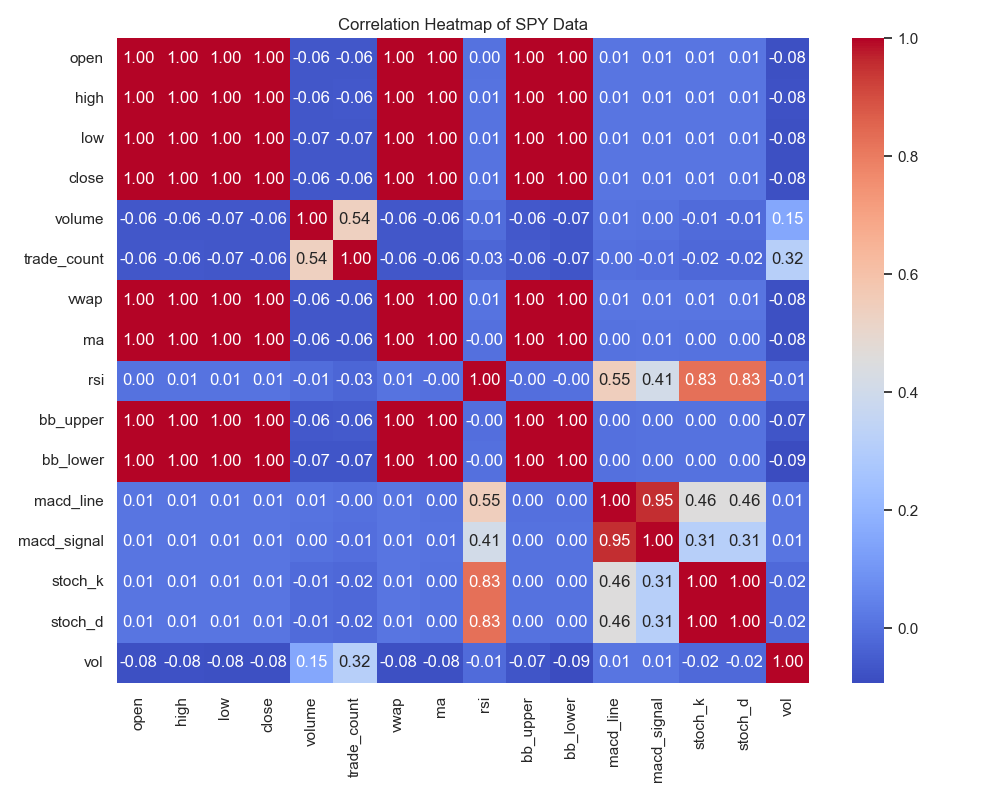
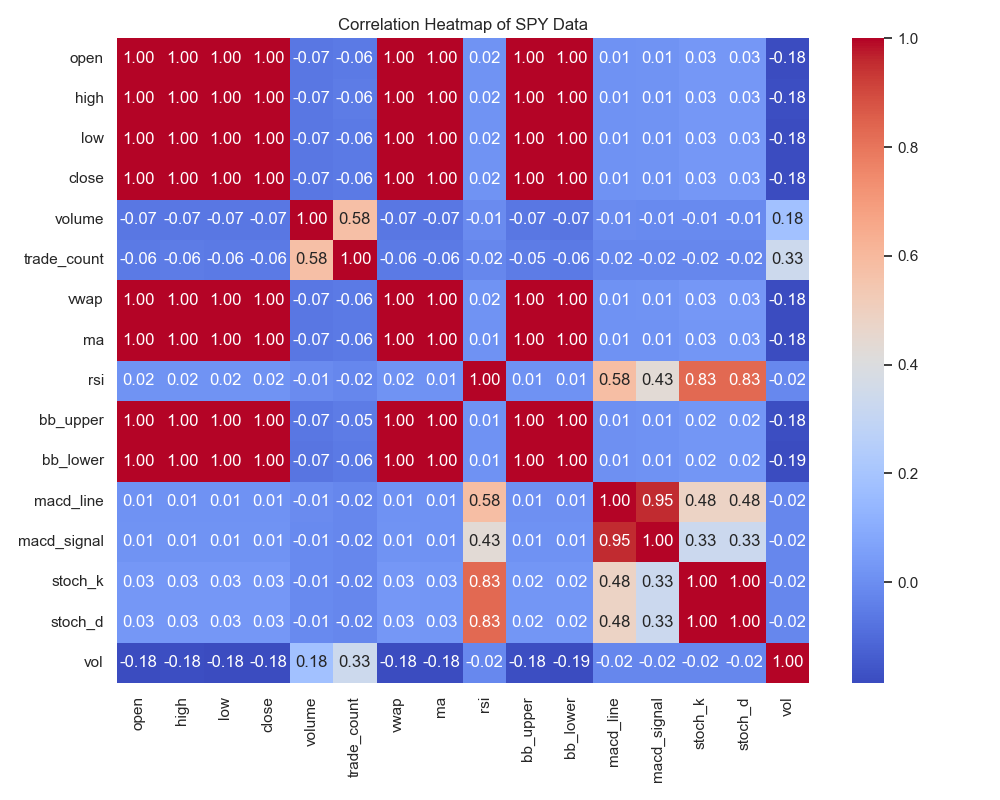
Backtest

diff --git a/trader/trading_model.py b/trader/trading_model.py
@@ -1,7 +1,7 @@
 import numpy as np
 from tensorflow.keras.models import load_model
 from alpaca.trading.client import TradingClient
-
+import joblib
 import os 
 import yaml
 
@@ -11,7 +11,22 @@ class TradingModel:
         with open('config/model_config.yaml', 'r') as f:
             config = yaml.safe_load(f)
         model_path = os.path.join(config['paths']['models'], config['name'] + '_final_model.keras')
+
+        with open("config/data_config.yaml", "r") as f:
+            config = yaml.safe_load(f) 
+
+        base_dir = os.path.dirname(os.path.dirname(os.path.abspath(__file__)))
+        processed_dir = os.path.join(base_dir, config["paths"]["processed"])
+
+        scaler_path = os.path.join(processed_dir, "scalers", "y_scaler.joblib")
+        if os.path.exists(scaler_path):
+            with open(scaler_path, "rb") as f:
+                self.scaler = joblib.load(f)
+        else:
+            self.scaler = None
+
         self.model = load_model(model_path)
+        self.last_predicted_value = None
 
     def predict_next_value(self, window):
         """
@@ -20,10 +35,12 @@ class TradingModel:
         :return: Predicted next value
         """
         window = np.expand_dims(window, axis=0)  # Add batch dimension
-        prediction = self.model.predict(window)
-        return prediction[0][0]  # Assuming the model outputs a single value
+        prediction = self.model.predict(window).flatten()
+        prediction = self.scaler.inverse_transform(prediction.reshape(-1, 1)).flatten()[0] if self.scaler else prediction
 
-    def trade(self, window, last_value, n_deviations):
+        return prediction
+
+    def trade(self, window, current_values ,threshold_percent=0.5):
         """
         Place a trade based on the predicted value.
         :param window: A numpy array of shape (60, 31)
@@ -31,22 +48,32 @@ class TradingModel:
         :param n_deviations: Number of deviations to determine trade direction
         """
         predicted_value = self.predict_next_value(window)
-        deviation = abs(predicted_value - last_value)
+        if self.last_predicted_value is None:
+            self.last_predicted_value = predicted_value
+            return None
+        pred_percent_change = (predicted_value - self.last_predicted_value) / self.last_predicted_value
+
+        self.last_predicted_value = predicted_value.copy()
+        print(f"Percent Change: {pred_percent_change}")
+        current_percent_change = (current_values[1] - current_values[0]) / current_values[0]
 
         with open('config/data_config.yaml', 'r') as f:
             config = yaml.safe_load(f)
         ticker = config['tickers'][-1]  # Assuming we are trading the last ticker
 
         qty = 1 
-        if predicted_value > last_value + n_deviations * deviation:
-            self.buy(ticker, qty=1)
-            return {"dir": 1, "last": last_value, "qty": qty}
+        if self.last_predicted_value is not None:
+            if pred_percent_change > threshold_percent and current_percent_change < 0:
+                return self.buy(ticker, qty=pred_percent_change/threshold_percent)
 
-        elif predicted_value < last_value - n_deviations * deviation:
-            self.sell(ticker, qty=1)
-            return {"dir": 0, "last": last_value, "qty": qty}
+            elif pred_percent_change < -threshold_percent and current_percent_change > 0:
+                return self.sell(ticker, qty=pred_percent_change/threshold_percent)
+                
+            else:
+                return None
         else:
             return None
+        
 
     def buy(self,last_value, symbol, qty):
         """
@@ -74,7 +101,7 @@ class AlpacaTradingClient(TradingModel):
         self.trading_client = TradingClient(api_key=api_key, secret_key=secret_key, paper=True, url_override=base_url)
 
     def buy(self, last_value, symbol, qty):
-        self.trading_client.submit_order(
+        return self.trading_client.submit_order(
             symbol=symbol,
             qty=qty,
             side='buy',
@@ -83,7 +110,7 @@ class AlpacaTradingClient(TradingModel):
         )
 
     def sell(self, last_value, symbol, qty):
-        self.trading_client.submit_order(
+        return self.trading_client.submit_order(
             symbol=symbol,
             qty=qty,
             side='sell',

diff --git a/trader/backtest.py b/trader/backtest.py
@@ -1,0 +1,107 @@
+import backtrader as bt
+from trading_model import TradingModel
+import pandas as pd
+import yaml
+import os 
+import numpy as np
+import joblib
+
+class TestTradingModel(TradingModel):
+    def __init__(self):
+        super().__init__()
+
+    def buy(self, symbol, qty):
+        return {"dir": 1, "qty": qty}
+    
+    def sell(self, symbol, qty):
+        return {"dir": -1, "qty": qty}
+
+class BacktestModel(bt.Strategy):
+    def __init__(self, trading_model, X_test, y_test, scaler, threshold_percent=1.0):
+        self.trading_model = trading_model
+        self.X_test = X_test
+        self.y_test = y_test
+        self.scaler = scaler 
+        self.window_size = 60
+        self.bar_counter = 0
+        self.threshold_percent = threshold_percent
+        self.idx = 0  # to index into X_test
+
+    def next(self):
+        if len(self) < self.window_size:
+            return
+
+        if self.idx < len(self.X_test):
+            window = self.X_test[self.idx]
+            last_value = self.y_test[self.idx - 2:self.idx] if self.idx > 1 else None   # only to get the last scaled value without scaling X_test
+            if last_value is not None:
+                trade = self.trading_model.trade(window, last_value, self.threshold_percent)
+                print(trade)
+                if trade:
+                    direction = trade['dir']
+                    qty = trade['qty']
+
+                    if direction == 1:
+                        self.buy(size=qty)
+                    elif direction == -1:
+                        self.sell(size=qty)
+
+            self.idx += 1
+
+
+def load_data(processed_dir: str):
+    """Load test arrays and scalers."""
+    X_test = np.load(os.path.join(processed_dir, "X_test.npy"))
+    y_test = np.load(os.path.join(processed_dir, "y_test.npy"))
+    print('Test Dataset shape:',X_test.shape, y_test.shape)
+
+    scaler_path = os.path.join(processed_dir, "scalers", "y_scaler.joblib")
+    if os.path.exists(scaler_path):
+        with open(scaler_path, "rb") as f:
+            scaler = joblib.load(f)
+    else:
+        scaler = None
+    print("Scaler loaded:", scaler)
+
+    return X_test, y_test, scaler
+
+if __name__ == "__main__":
+
+    with open("config/data_config.yaml", "r") as f:
+        config = yaml.safe_load(f)
+
+    base_dir = os.path.dirname(os.path.dirname(os.path.abspath(__file__)))
+    processed_dir = os.path.join(base_dir, config["paths"]["processed"])
+    raw_dir = os.path.join(base_dir, config["paths"]["raw"])
+
+    vixy_path = os.path.join(raw_dir, "VIXY.csv")
+    
+    X_test, y_test, y_scaler = load_data(processed_dir)
+
+    if y_scaler is not None:
+        y_test = y_scaler.inverse_transform(y_test.reshape(-1, 1)).flatten()
+
+    # Load data
+    df = pd.read_csv(vixy_path).loc[y_test.shape[0]-1:]
+    # Convert 'timestamp' to datetime
+    df['timestamp'] = pd.to_datetime(df['timestamp'])
+
+    # Set as the index
+    df.set_index('timestamp', inplace=True)
+
+    data = bt.feeds.PandasData(
+        dataname=df,
+        timeframe=bt.TimeFrame.Minutes,
+        compression=1  # 1-minute frequency
+    )
+
+    # Initialize TradingModel
+    trading_model = TestTradingModel()
+
+    # Initialize backtrader
+    cerebro = bt.Cerebro()
+    cerebro.adddata(data)
+    cerebro.addstrategy(BacktestModel, trading_model=trading_model, X_test=X_test, y_test=y_test, scaler=y_scaler, threshold_percent=0.025)
+    #Run backtest
+    cerebro.run()
+    cerebro.plot(style='candlestick')

diff --git a/model/evaluate.py b/model/evaluate.py
@@ -7,7 +7,6 @@ from tensorflow import keras
 from sklearn.metrics import mean_absolute_error, mean_squared_error
 import matplotlib.pyplot as plt
 from tuning import calculate_metrics
-from trader.trading_model import TradingModel
 
 def save_metrics_to_yaml(metrics: dict, model_name: str, output_dir: str, filename: str = "model_metrics.yaml"):
     # Define path
@@ -89,59 +88,6 @@ def plot_predictions(y_true, y_pred, analysis_path, model_name):
     plt.show()
     plt.close()
 
-# Backtesting with TradingModel
-class BacktestTradingModel(TradingModel):
-    def __init__(self):
-        super().__init__()
-        self.trades = []  # List to store trades
-
-    def buy(self, last, symbol, qty):
-        self.trades.append({"action": "buy", "price": last, "symbol": symbol, "qty": qty})
-
-    def sell(self, last, symbol, qty):
-        self.trades.append({"action": "sell", "price": last, "symbol": symbol, "qty": qty})
-
-
-def backtest_trading_model(X_test, y_test, model, n_deviations=1.5, initial_capital=10000):
-    """
-    Perform backtesting using the TradingModel and calculate capital flow.
-    :param X_test: Test features (numpy array)
-    :param y_test: Test labels (numpy array)
-    :param model: Instance of BacktestTradingModel
-    :param n_deviations: Number of deviations to determine trade direction
-    :param initial_capital: Starting capital for backtesting
-    """
-    capital = initial_capital
-    capital_flow = [capital]
-
-    for i in range(len(X_test)):
-        window = X_test[i]
-        last_value = y_test[i - 1] if i > 0 else y_test[i]
-        model.trade(window, last_value, n_deviations)
-
-        # Update capital based on trades
-        for trade in model.trades:
-            if trade["action"] == "buy":
-                capital -= trade["price"] * trade["qty"]
-            elif trade["action"] == "sell":
-                capital += trade["price"] * trade["qty"]
-
-        capital_flow.append(capital)
-
-    # Plot capital flow
-    plt.figure(figsize=(12, 6))
-    plt.plot(capital_flow, label="Capital Flow")
-    plt.title("Capital Flow During Backtesting")
-    plt.xlabel("Time Steps")
-    plt.ylabel("Capital")
-    plt.legend()
-    plt.tight_layout()
-    plt.show()
-    plt.close()
-
-    return model.trades, capital_flow
-
-
 if __name__ == "__main__":
     import argparse
 
@@ -200,16 +146,8 @@ if __name__ == "__main__":
 
     
     np.savetxt(os.path.join(base_dir, paths_data['processed'], "y_pred.csv"), y_pred)
-    np.savetxt(os.path.join(base_dir, paths_data['processed'], "y_test.csv"), y_test) 
-    
-    # Initialize the trading model
-    trading_model = BacktestTradingModel()
 
-    # Perform backtesting
-    trades = backtest_trading_model(X_test, y_test, trading_model)
+    y_test_path = os.path.join(base_dir, paths_data['processed'], "y_test.csv")
+    np.savetxt(y_test_path, y_test) 
 
-    # Save trades to a CSV file
-    trades_path = os.path.join(base_dir, paths_data['processed'], "trades.csv")
-    np.savetxt(trades_path, trades, delimiter=",")
-    print(f"Trades saved to {trades_path}")
 

diff --git a/analysis/plot_data.py b/analysis/plot_data.py
@@ -3,6 +3,8 @@ import pandas as pd
 import seaborn as sns
 import yaml 
 import matplotlib.pyplot as plt
+import numpy as np
+from scipy.stats import norm
 
 def plot_corr():
     """
@@ -44,8 +46,53 @@ def plot_corr():
 
         print(f"Correlation heatmap of {ticker} saved to {output_path}")
 
+def plot_spx_dist(): 
+    """
+    Load SPX data from a CSV file, compute the distribution of returns,
+    and plot a histogram.
+    """
+    with open('config/data_config.yaml', 'r') as f:
+        config = yaml.safe_load(f)
+
+    data_folder = config['paths']['raw']
+    output_path = config['paths']['plots']
+
+    os.makedirs(output_path, exist_ok=True)
+
+    spx_file = os.path.join(data_folder, "SPY.csv")
+    df_spx = pd.read_csv(spx_file)
     
+    # Calculate daily returns
+    df_spx['returns'] = df_spx['close'].pct_change().dropna()
+
+    returns = df_spx['returns']
+    p01, p99 = np.percentile(returns, [1, 99])
+    returns_clipped = returns.clip(p01, p99)
+
+    # df_sample = df_spx.sample(n=10000, random_state=42)
+    
+    # Plot the distribution of returns
+    plt.figure(figsize=(10, 6))
+
+    sns.histplot(returns_clipped, bins=100, kde=True, stat='density')
+    mu = returns.mean()
+    sigma = returns.std()
+    x = np.linspace(returns.min(), returns.max(), 2000)
+    plt.plot(x, norm.pdf(x, mu, sigma), label='Normal Distribution', color='red')
+
+    
+    # sns.histplot(df_sample['returns'], bins=50, kde=True)
+    plt.xlim(-0.02, 0.02)
+
+    plt.title('SPY Returns Distribution')
+    plt.xlabel("Returns")
+    plt.ylabel("Frequency")
+
+    plt.show()
+
+
 if __name__ == "__main__":
     sns.set(style="whitegrid")
-    plot_corr()
+    # plot_corr()
+    plot_spx_dist()
 

diff --git a/data/preprocess.py b/data/preprocess.py
@@ -53,12 +53,12 @@ def create_datasets(merged_data, path):
         raise ValueError(f"Column to predict '{column_to_predict}' not found in the data.")
 
     # Find the index of the column_to_predict and write it to the YAML file
-    column_index = merged_data.columns.get_loc(column_to_predict)
-    config['y_column_index'] = column_index
-    with open('config/data_config.yaml', 'w') as f:
-        yaml.safe_dump(config, f)
+    # column_index = merged_data.columns.get_loc(column_to_predict)
+    # config['y_column_index'] = column_index
+    # with open('config/data_config.yaml', 'w') as f:
+    #     yaml.safe_dump(config, f)
 
-    print(f"Column to predict '{column_to_predict}' found at index {column_index}. Updated config file.")
+    # print(f"Column to predict '{column_to_predict}' found at index {column_index}. Updated config file.")
     print(f"Creating datasets with sequence length: {sequence_length} and target column: {column_to_predict}")
 
     # Prepare the dataset
